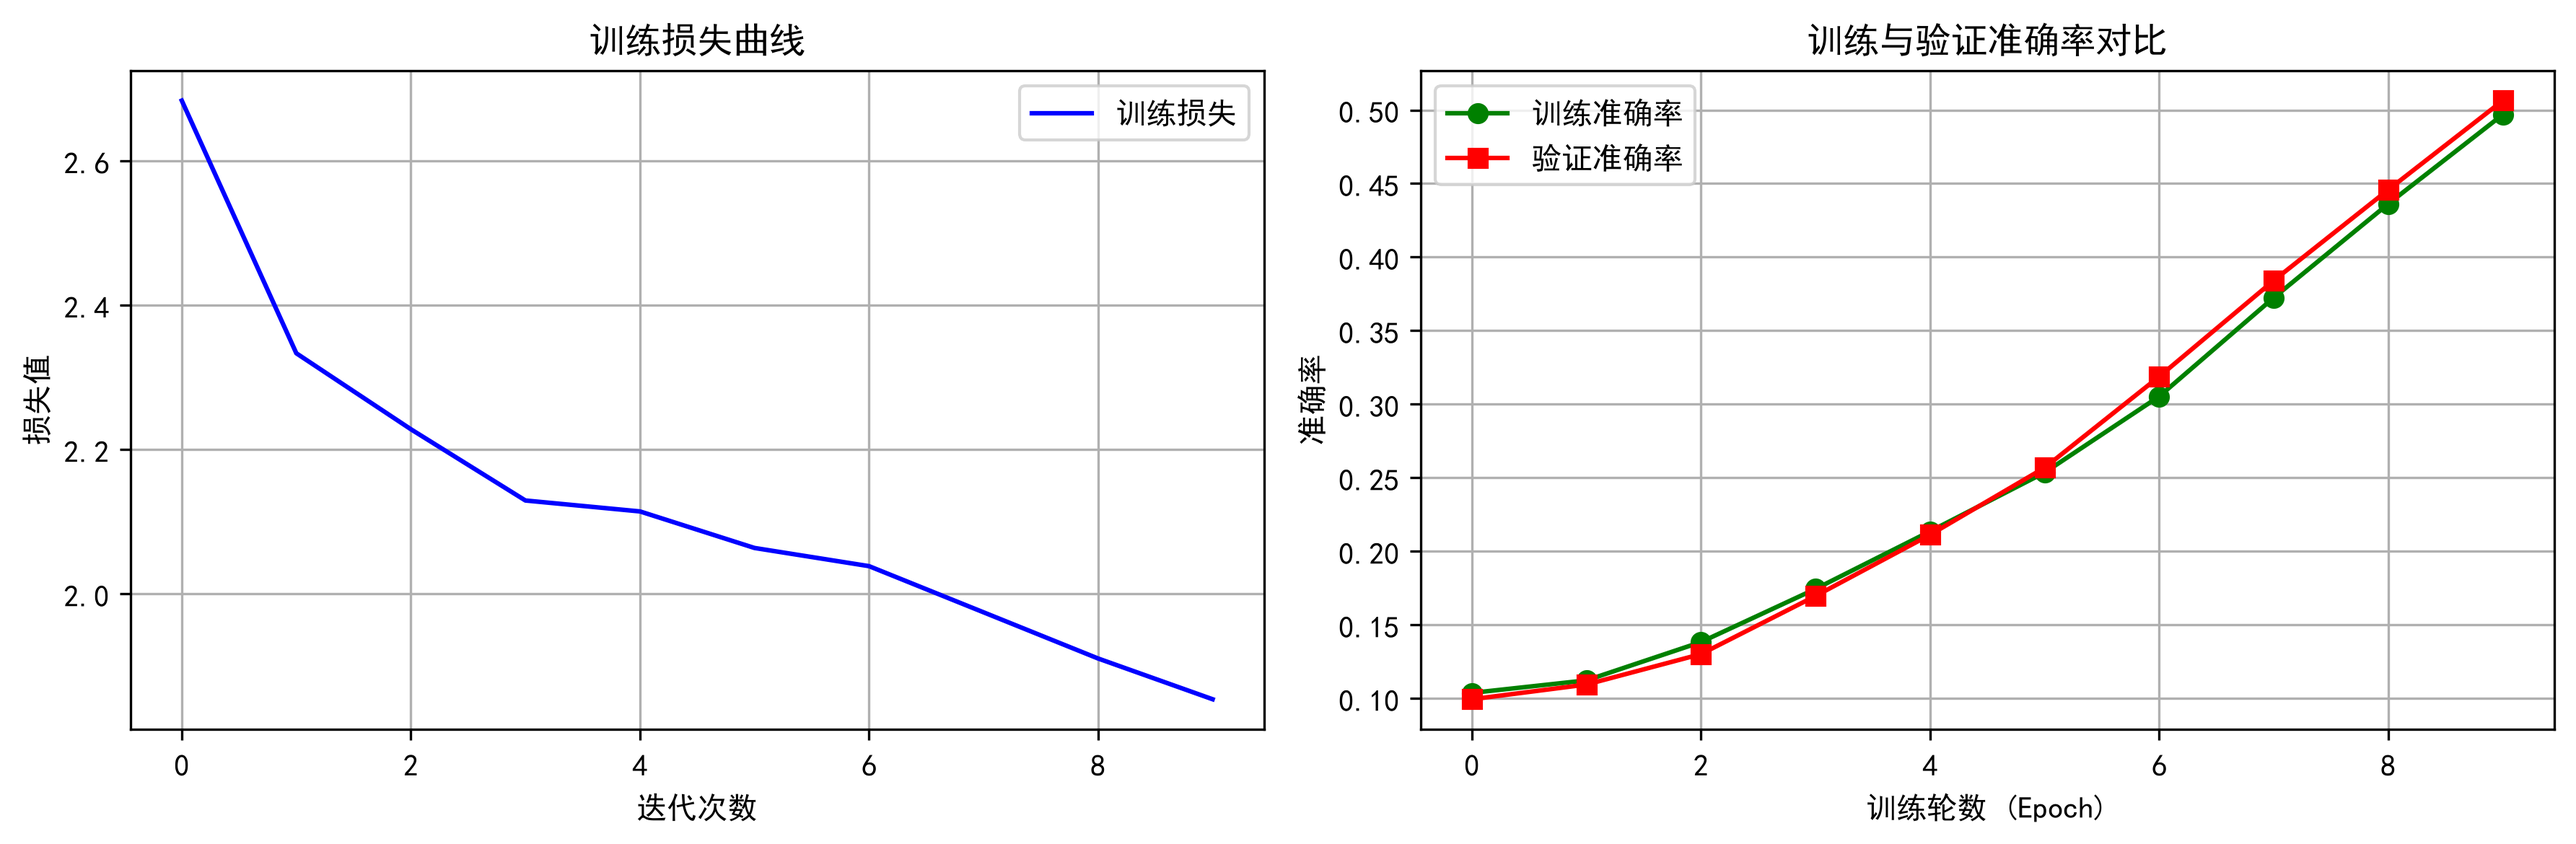
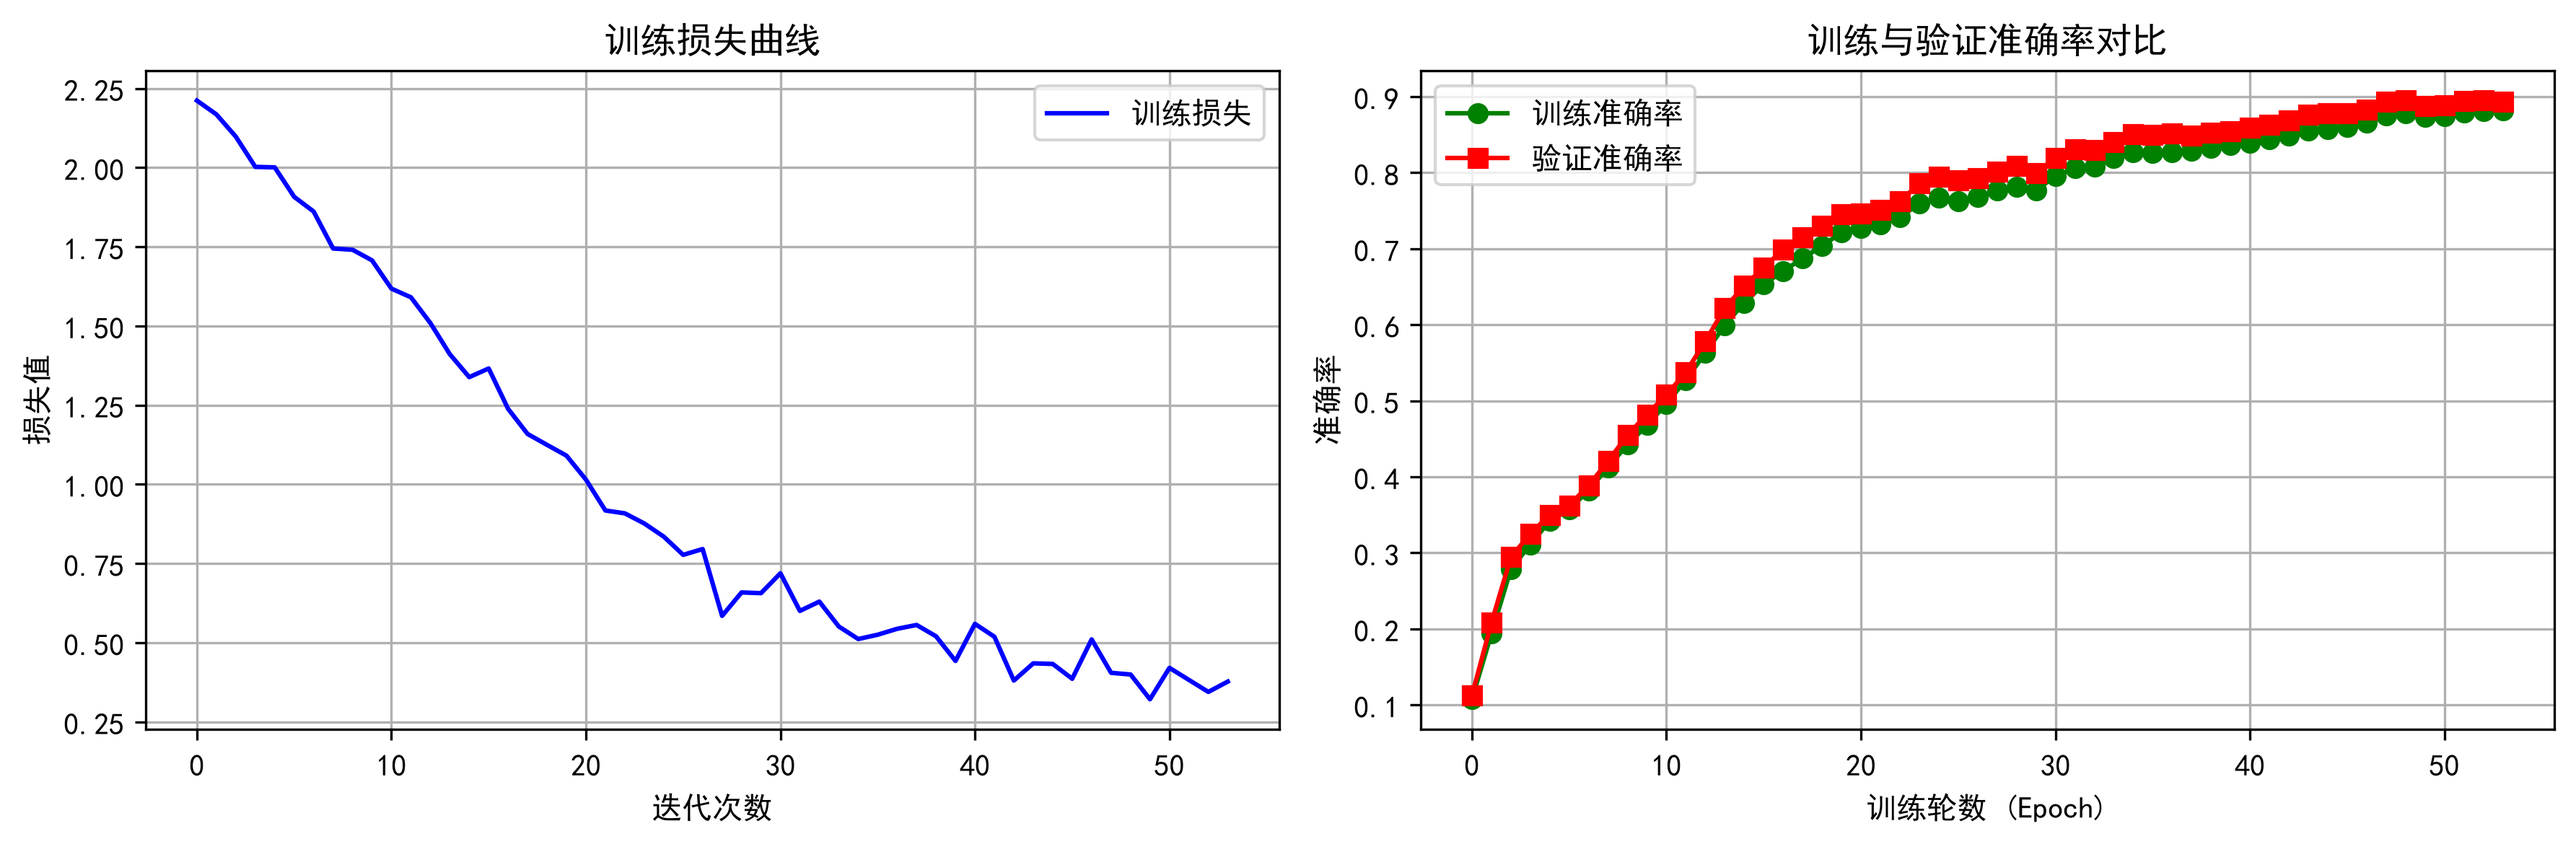
更新TROUBLESHOOTING.md和README.md

diff --git a/main.py b/main.py
@@ -38,7 +38,7 @@ trainer = Trainer(
     t_train,
     x_val,
     t_val,
-    epochs=10,
+    epochs=100,
     mini_batch_size=256,
     optimizer="Adam",
     optimizer_param={"lr": 0.001},

diff --git a/TROUBLESHOOTING.md b/TROUBLESHOOTING.md
@@ -385,3 +385,65 @@ Epoch 50/50 | 训练集: 0.8534 | 验证集: 0.8677
 </pre>
 
 现在看来，数据增强+学习率衰减对模型并没有起到作用，反而“拖了后腿”，这说明数据增强和学习率衰减是防止“过拟合”和“后期震荡”的，不是用来加速前期收敛的。而且在Epoch=50的情况下，模型准确率只能达到86%，要想冲到90%甚至95%，看来需要做进一步优化了！
+
+
+<pre>
+Epoch 1/100 | 训练集: 0.1075 | 验证集: 0.1125
+Epoch 2/100 | 训练集: 0.1938 | 验证集: 0.2079
+Epoch 3/100 | 训练集: 0.2783 | 验证集: 0.2942
+Epoch 4/100 | 训练集: 0.3112 | 验证集: 0.3251
+Epoch 5/100 | 训练集: 0.3418 | 验证集: 0.3499
+Epoch 6/100 | 训练集: 0.3570 | 验证集: 0.3623
+Epoch 7/100 | 训练集: 0.3822 | 验证集: 0.3887
+Epoch 8/100 | 训练集: 0.4127 | 验证集: 0.4205
+Epoch 9/100 | 训练集: 0.4424 | 验证集: 0.4550
+Epoch 10/100 | 训练集: 0.4678 | 验证集: 0.4820
+Epoch 11/100 | 训练集: 0.4962 | 验证集: 0.5078
+Epoch 12/100 | 训练集: 0.5275 | 验证集: 0.5375
+Epoch 13/100 | 训练集: 0.5629 | 验证集: 0.5783
+Epoch 14/100 | 训练集: 0.5993 | 验证集: 0.6218
+Epoch 15/100 | 训练集: 0.6290 | 验证集: 0.6511
+Epoch 16/100 | 训练集: 0.6529 | 验证集: 0.6751
+Epoch 17/100 | 训练集: 0.6706 | 验证集: 0.6989
+Epoch 18/100 | 训练集: 0.6871 | 验证集: 0.7153
+Epoch 19/100 | 训练集: 0.7036 | 验证集: 0.7300
+Epoch 20/100 | 训练集: 0.7211 | 验证集: 0.7456
+Epoch 21/100 | 训练集: 0.7276 | 验证集: 0.7459
+Epoch 22/100 | 训练集: 0.7320 | 验证集: 0.7508
+Epoch 23/100 | 训练集: 0.7411 | 验证集: 0.7621
+Epoch 24/100 | 训练集: 0.7594 | 验证集: 0.7856
+Epoch 25/100 | 训练集: 0.7669 | 验证集: 0.7945
+Epoch 26/100 | 训练集: 0.7620 | 验证集: 0.7900
+Epoch 27/100 | 训练集: 0.7678 | 验证集: 0.7931
+Epoch 28/100 | 训练集: 0.7769 | 验证集: 0.8012
+Epoch 29/100 | 训练集: 0.7815 | 验证集: 0.8089
+Epoch 30/100 | 训练集: 0.7766 | 验证集: 0.7989
+Epoch 31/100 | 训练集: 0.7955 | 验证集: 0.8194
+Epoch 32/100 | 训练集: 0.8060 | 验证集: 0.8303
+Epoch 33/100 | 训练集: 0.8078 | 验证集: 0.8294
+Epoch 34/100 | 训练集: 0.8195 | 验证集: 0.8402
+Epoch 35/100 | 训练集: 0.8268 | 验证集: 0.8504
+Epoch 36/100 | 训练集: 0.8260 | 验证集: 0.8496
+Epoch 37/100 | 训练集: 0.8264 | 验证集: 0.8517
+Epoch 38/100 | 训练集: 0.8283 | 验证集: 0.8486
+Epoch 39/100 | 训练集: 0.8321 | 验证集: 0.8526
+Epoch 40/100 | 训练集: 0.8360 | 验证集: 0.8547
+Epoch 41/100 | 训练集: 0.8393 | 验证集: 0.8592
+Epoch 42/100 | 训练集: 0.8437 | 验证集: 0.8628
+Epoch 43/100 | 训练集: 0.8489 | 验证集: 0.8684
+Epoch 44/100 | 训练集: 0.8555 | 验证集: 0.8766
+Epoch 45/100 | 训练集: 0.8572 | 验证集: 0.8776
+Epoch 46/100 | 训练集: 0.8600 | 验证集: 0.8785
+Epoch 47/100 | 训练集: 0.8653 | 验证集: 0.8831
+Epoch 48/100 | 训练集: 0.8750 | 验证集: 0.8930
+Epoch 49/100 | 训练集: 0.8782 | 验证集: 0.8947
+Epoch 50/100 | 训练集: 0.8731 | 验证集: 0.8879
+Epoch 51/100 | 训练集: 0.8739 | 验证集: 0.8882
+Epoch 52/100 | 训练集: 0.8794 | 验证集: 0.8941
+Epoch 53/100 | 训练集: 0.8811 | 验证集: 0.8947
+Epoch 54/100 | 训练集: 0.8823 | 验证集: 0.8934
+验证集连续 5 轮未提升，触发早停！
+训练结束！已恢复验证集最高准确率（0.8947）时的模型参数。
+✅ 模型参数已成功保存到 lenet_params.pkl！
+最终测试结果为：0.8937
+</pre>

diff --git a/README.md b/README.md
@@ -174,6 +174,12 @@ Epoch 50/50 | 训练集: 0.7513 | 验证集: 0.7723
 - **绘制训练曲线**：使用 `matplotlib` 将 `train_loss_list`、`train_acc_list` 和 `val_acc_list` 绘制成折线图，直观展示收敛过程与过拟合情况。
 - **完善 README 与代码注释**：补充详细的调试记录与运行结果，让项目更具工程参考价值。
 
+**📈 第二阶段训练配置与运行结果：**
+
+训练配置：
+
+运行结果：
+
 ![训练曲线](assets/training_curves.png)
 
 ### 🌐 第四阶段：跨数据集实战
